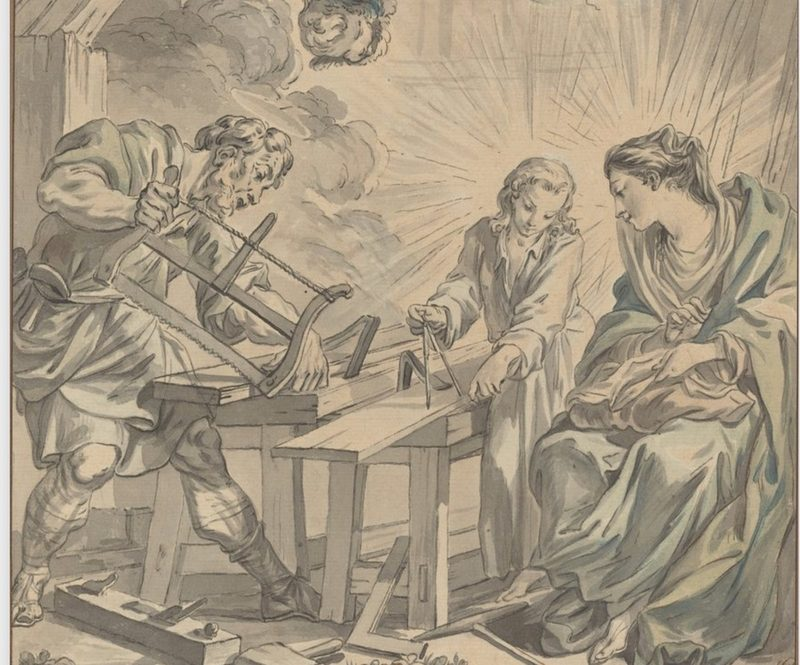
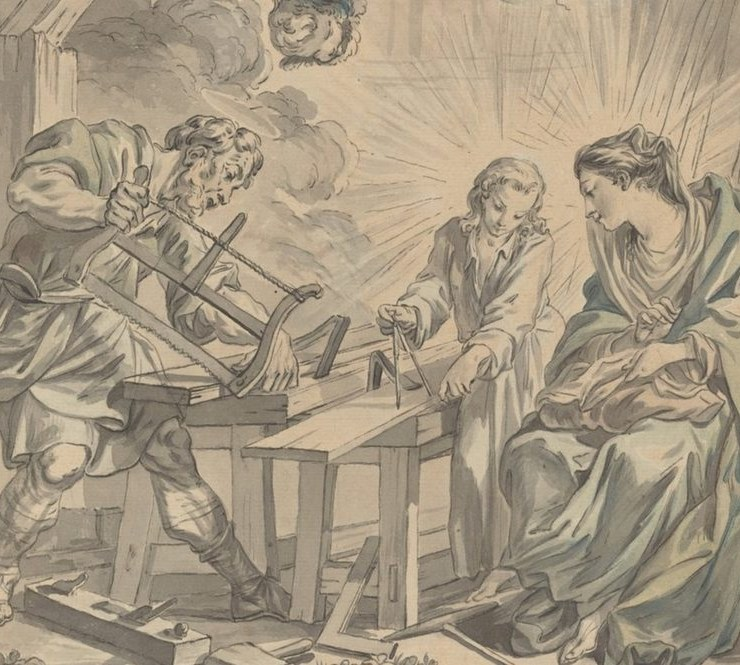
Crops and positions the Classes CTA photo

diff --git a/classes.html b/classes.html
@@ -196,8 +196,8 @@
 <!--   SECTION 5: BLUEPRINT SCHEMATIC CROSS HERO CONTAINER-->
   <section class="classes-blueprint-hero">
     <img class="blueprint-hero-image"
-         src="img/samples/cta-1.jpeg"
-         alt="Student working on a colorful art project at the studio"
+         src="img/faq/faq_1.jpeg"
+         alt="Students working on art projects at the Atelier"
          width="1200"
          height="400"
          loading="lazy"

diff --git a/faq.html b/faq.html
@@ -24,7 +24,6 @@
       <h2>Frequently Asked Questions</h2>
       <span class="classes-subheading">St. Joseph's Atelier</span>
       <p class="classes-lead">Everything you need to know about classes, registration, tuition, policies, and what to expect at the Atelier.</p>
-      <img class="card-img-placeholder classes-side-image" src="img/faq/faq_1.jpeg">
     </div>
   </section>
 

diff --git a/css/classes.css b/css/classes.css
@@ -263,6 +263,11 @@
   display: block;
 }
 
+.classes-page-content .blueprint-hero-image {
+  object-fit: cover;
+  object-position: center 5%;
+}
+
 .classes-blueprint-hero::after {
   content: "";
   position: absolute;
